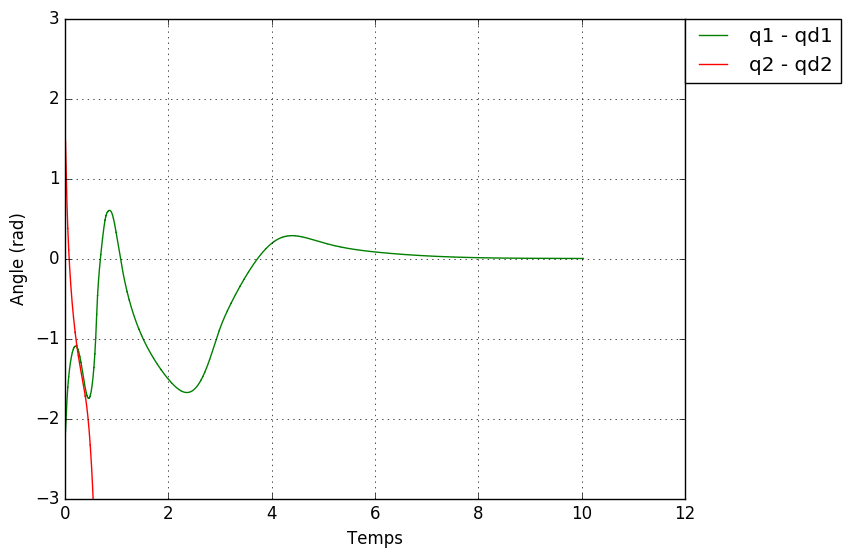
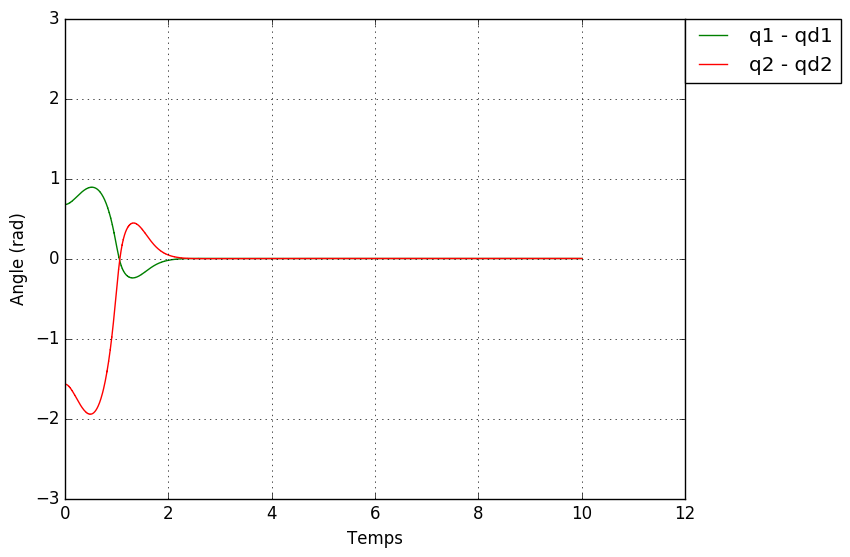
plot

diff --git a/Code/test.py b/Code/test.py
@@ -82,10 +82,9 @@ def derivs(state, t):
     dq1 = state[1]
     q2 = state[2]
     dq2 = state[3]
-    if _last_time < t:
-        tab[0] += [q1]
-        tab[1] += [q2]
-        tab[2] += [t]
+    tab[0] += [q1 - qd1]
+    tab[1] += [q2 - qd2]
+    tab[2] += [t]
 
     d11 = m1 * lc1 ** 2 + m2 * (l1 ** 2 + lc2 ** 2 + 2 * l1 * lc2 * cos(q2)) + I1 + I2
     d22 = m2 * lc2 ** 2 + I2
@@ -142,13 +141,18 @@ kp, kd, kdd, qd1 = getGains()
 t = np.arange(0.0, 10 , dt)
 y = integrate.odeint(derivs, state, t, mxstep=5000000)
 
+do_plot(tab[0], tab[1], tab[2], 0)
+tab = [[], [], []]
+
 for i in range(len(vals_qd2)-1):
     print("itération :", i)
-    t = np.arange(0.0 * i + 10, 10 * i + 10, dt)
+    t = np.arange(0.0, 10, dt)
     maj_param()
     state = np.array([th1, dth1, th2, dth2]) * pi / 180.
     z = integrate.odeint(derivs, state, t, mxstep=5000000)
     y = np.concatenate((y, z))
+    do_plot(tab[0], tab[1], tab[2], i)
+    tab = [[], [], []]
 
 
 
@@ -167,7 +171,7 @@ line1, = ax.plot([], [], 'o-', lw=2, c=(0, 1, 0))
 line2, = ax.plot([], [], 'o-', lw=2, c=(1, 1.0 * 180.0 / 255.0, 0))
 #time_template = 'time = %.2fs'
 time_template = 'time = %.2fs\nqd2 = %.2f'
-time_text = ax.text(0.05, 0.90, '', color='red', transform=ax.transAxes)
+time_text = ax.text(0.05, 0.93, '', color='red', transform=ax.transAxes)
 
 
 def init():
@@ -180,7 +184,7 @@ def animate(i):
     thisx = [0, x1[i], x2[i]]
     thisy = [0, y1[i], y2[i]]
     line1.set_data(thisx, thisy)
-    print(" **************** " + str(int(i//10*dt)))
+    #print(" **************** " + str(int(i//10*dt)))
     txt = math.degrees(vals_qd2[int(i//10*dt)])
     time_text.set_text(time_template % (i * dt, txt)  )
     #time_text.set_text(time_template % (i * dt))
@@ -195,7 +199,7 @@ ani = animation.FuncAnimation(fig, animate, frames=len(y),
 plt.axis('equal')
 plt.axis([-L, L, -L, L])
 plt.show()
-tab[0] = [tab[0][i] - qd1 for i in range(len(tab[1]))]
-tab[1] = [tab[1][i] - qd2 for i in range(len(tab[1]))]
-print("plot")
-do_plot(tab[0], tab[1], tab[2])
+#tab[0] = [tab[0][i] - qd1 for i in range(len(tab[1]))]
+#tab[1] = [tab[1][i] - qd2 for i in range(len(tab[1]))]
+#print("plot")
+#do_plot(tab[0], tab[1], tab[2])

diff --git a/Code/plots.py b/Code/plots.py
@@ -58,5 +58,5 @@ def do_plot(q1, q2, t, it=0):
 	ax2.plot(t, q1, 'g-', label="q1 - qd1")
 	ax2.plot(t, q2, 'r-', label="q2 - qd2")
 	plt.legend(bbox_to_anchor=(1, 1), loc=2, borderaxespad=0.)
-	#plt.savefig('Data/plots/plot_'+str(it)+'.png', bbox_inches='tight')
-	#plt.close(fig2)
+	plt.savefig('Data/plots/plot_'+str(it)+'.png', bbox_inches='tight')
+	plt.close(fig2)
